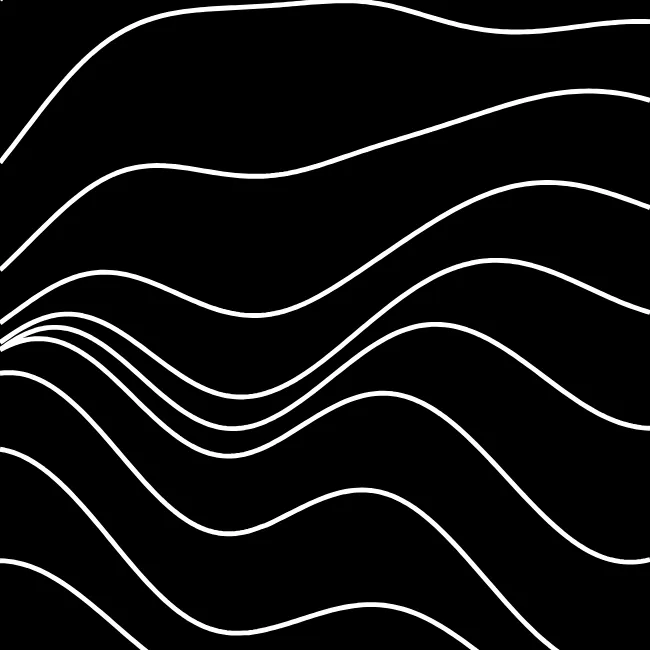
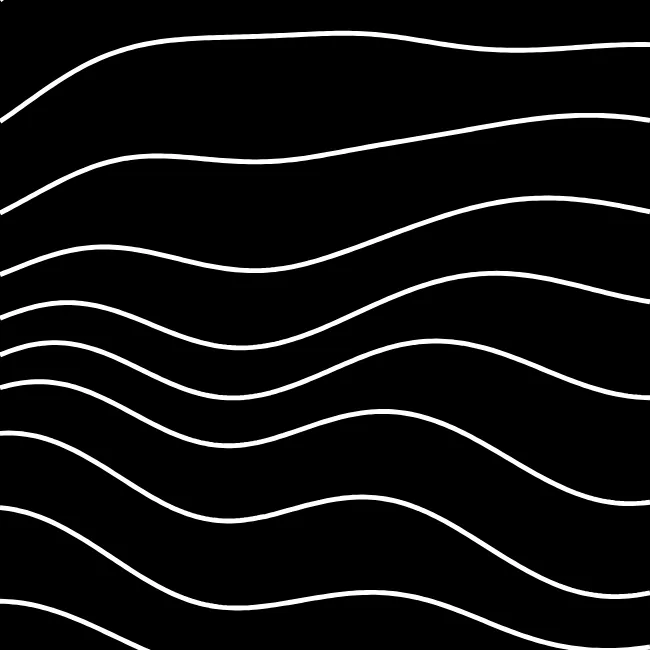
Remove archived card and soften wave speed and vertical response

diff --git a/site/styles.css b/site/styles.css
@@ -34,9 +34,6 @@ h1 { margin: 0; line-height: 0; }
 .tile canvas { background: #000; touch-action: pan-y; }
 .tile canvas[data-art="waves"] { background: #000 url("./assets/waves-poster.webp") center / 100% 100%; }
 .tile canvas[data-art="particles"] { background: #000 url("./assets/particles-poster.webp") center / 100% 100%; }
-.tile--archive a { display: flex; height: 100%; flex-direction: column; align-items: center; justify-content: center; gap: 14px; color: #bababa; text-align: center; text-decoration: none; font-size: 14px; }
-.tile--archive small { color: #999; font-size: 12px; line-height: 1.7; }
-.tile--archive a:hover { color: white; }
 .fallback { position: absolute; inset: 0; display: grid; place-content: center; margin: 24px; color: #bbb; text-align: center; font-size: 13px; }
 @media (min-width: 400px) { .tile--hero, .tile--portrait { grid-row: span 2; } }
 @media (min-width: 752px) { .tile--hero { grid-column: span 2; } }

diff --git a/src/motion.js b/src/motion.js
@@ -9,7 +9,7 @@ export function drawWaves(ctx, width, height, time, pointer, noise) {
   ctx.lineWidth = Math.min(width, height) * 0.0075;
   ctx.lineJoin = 'round';
   const frequency = 0.5 + 1.5 * pointer.x;
-  const amplitude = (0.05 + 0.45 * pointer.y) * height;
+  const amplitude = (0.05 + 0.2 * pointer.y) * height;
   const steps = Math.min(150, Math.max(60, Math.ceil(width / 4)));
   ctx.beginPath();
   for (let row = 0; row < 10; row++) {
@@ -56,7 +56,7 @@ export function createGallery(canvases) {
   function paint(state, delta = 1 / 60) {
     if (!state.width || !state.height) return;
     if (state.canvas.dataset.art === 'waves') {
-      drawWaves(state.ctx, state.width, state.height, activeTime * 0.5, state.pointer, noise);
+      drawWaves(state.ctx, state.width, state.height, activeTime * 0.25, state.pointer, noise);
     } else {
       drawParticles(state.ctx, state.width, state.height, delta);
     }

diff --git a/README.md b/README.md
@@ -31,7 +31,7 @@ npm start
 - `scripts/build.mjs`: bundles and hashes CSS/JavaScript into `build/`.
 - `tests/motion.test.mjs`: startup, visibility, motion preferences, resize, touch, and timing checks.
 
-The waves retain ten white noise-driven lines and pointer-controlled frequency/amplitude. The particles retain the original accumulating translucent circles. Frame pacing is capped at 60 updates/second, elapsed time controls speed, pixel density is capped at 2, and hidden/offscreen sketches pause automatically. The operating-system reduced-motion preference starts the sketches paused with a visible image. The visitor can toggle motion explicitly.
+The waves retain ten white noise-driven lines. Moving right increases frequency (more tightly packed bends); moving down increases amplitude (taller waves). The amplitude ranges from 5% to 25% of canvas height, with its former 50% maximum halved. Wave motion now runs at half its previous speed, while the render cadence remains capped at 60 updates/second. The particles retain the original accumulating translucent circles. Frame pacing is capped at 60 updates/second, elapsed time controls speed, pixel density is capped at 2, and hidden/offscreen sketches pause automatically. The operating-system reduced-motion preference starts the sketches paused with a visible image. The visitor can toggle motion explicitly.
 
 ## Hosting
 
@@ -45,7 +45,7 @@ The seven working images were recovered from the original repository and its Goo
 
 Two additional photographs (blue seascape and red fish) were added on 2026-11-14 as the exact uploaded JPEG bytes. They use CSS black framing and `object-fit: contain`, with no cropping, colour edits, or recompression. The blue seascape is grouped directly below the blue patterned tile at every screen width. Their checksums are recorded in `scripts/image-manifest.json`.
 
-The final IPFS artwork (`QmdiGgzfqxVRS4euboQbBpbRaqe4HX3zkDJgouDd18weRt`) could not be retrieved from the gateways checked. Its position now contains an explicit archive link; the page does not make a failing gateway request on startup. This image has not been replaced with invented artwork.
+The final IPFS artwork (`QmdiGgzfqxVRS4euboQbBpbRaqe4HX3zkDJgouDd18weRt`) could not be retrieved from the gateways checked. The unavailable placeholder and archive link have been removed from the gallery.
 
 ## Measured changes
 
@@ -54,12 +54,12 @@ Compared with the existing `gh-pages` build at `a170b3a`:
 | Resource | Before | After |
 | --- | ---: | ---: |
 | All JavaScript bundles, uncompressed | 988,826 B | 5,854 B |
-| JavaScript, summed gzip sizes | 243,558 B | 2,587 B |
+| JavaScript, summed gzip sizes | 243,558 B | 2,589 B |
 | Seven original gallery images | 10,999,508 B | 1,518,324 B across all responsive variants |
 | Render-blocking external stylesheet | 155,845 B | Removed |
 | External resource hosts needed to render | jsDelivr, Google Images, IPFS | None |
 
-The new animation posters add 23,672 B and the logo adds 3,565 B. Only one size of each responsive image is requested, and below-fold images are lazy-loaded. These are artifact sizes, not an end-user load-time or FPS measurement.
+The new animation posters add 19,964 B and the logo adds 3,565 B. Only one size of each responsive image is requested, and below-fold images are lazy-loaded. These are artifact sizes, not an end-user load-time or FPS measurement.
 
 Automated lifecycle tests and build integrity checks pass. Individual canvas artwork frames were rendered and visually inspected using native Canvas. Browser automation was disabled during this session, so full-page visual QA, browser performance traces, Safari/iPhone checks, and the corporate network's behavior still require an actual browser check. No claim of a particular device frame rate or cold-load time is made.
 
